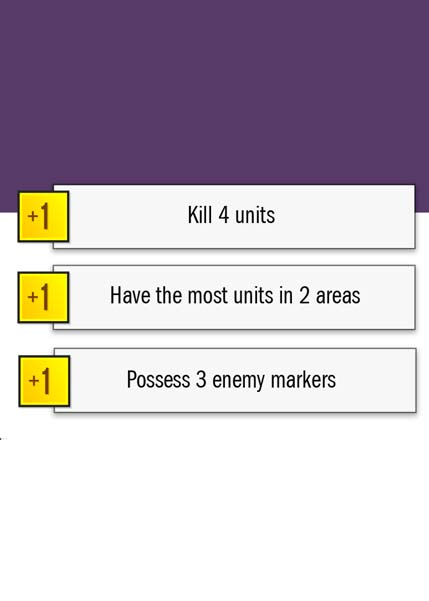
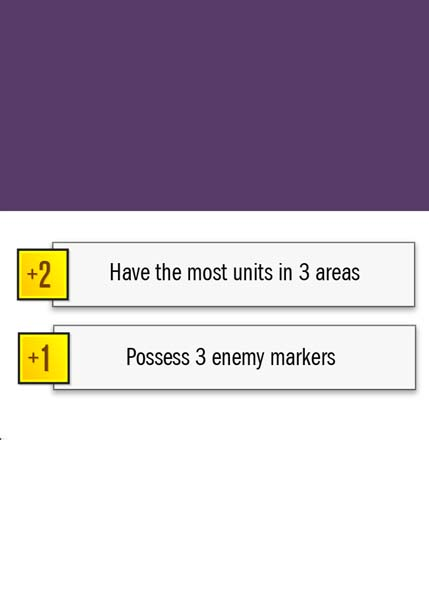
minor faction tweaks

Changed region(s): [[0.0, 0.2995, 1.0, 0.7188]]

diff --git a/server/classes/factions/plans/bikersPlans.js b/server/classes/factions/plans/bikersPlans.js
@@ -31,15 +31,9 @@ let obj = [
         objectives : [
             {
                 requirements : [
-                    { test : 'killUnits', args : [4] },
+                    { test : 'areasMostUnits', args : [3] },
                 ],
-                value : 1
-            },
-            {
-                requirements : [
-                    { test : 'areasMostUnits', args : [2] },
-                ],
-                value : 1
+                value : 2
             },
             {
                 requirements : [

diff --git a/server/classes/factions/plans/survivalistsPlans.js b/server/classes/factions/plans/survivalistsPlans.js
@@ -120,7 +120,7 @@ let obj = [
             },
             {
                 requirements : [
-                    { test : 'useSkills', args : [3] },
+                    { test : 'loseUnits', args : [3] },
                 ],
                 value : 1
             },
